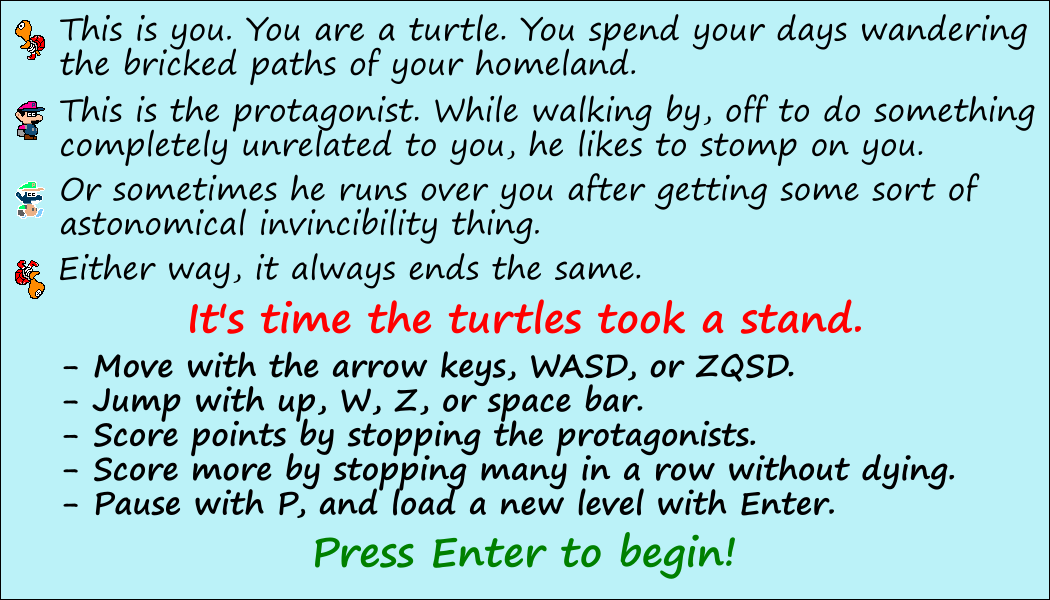
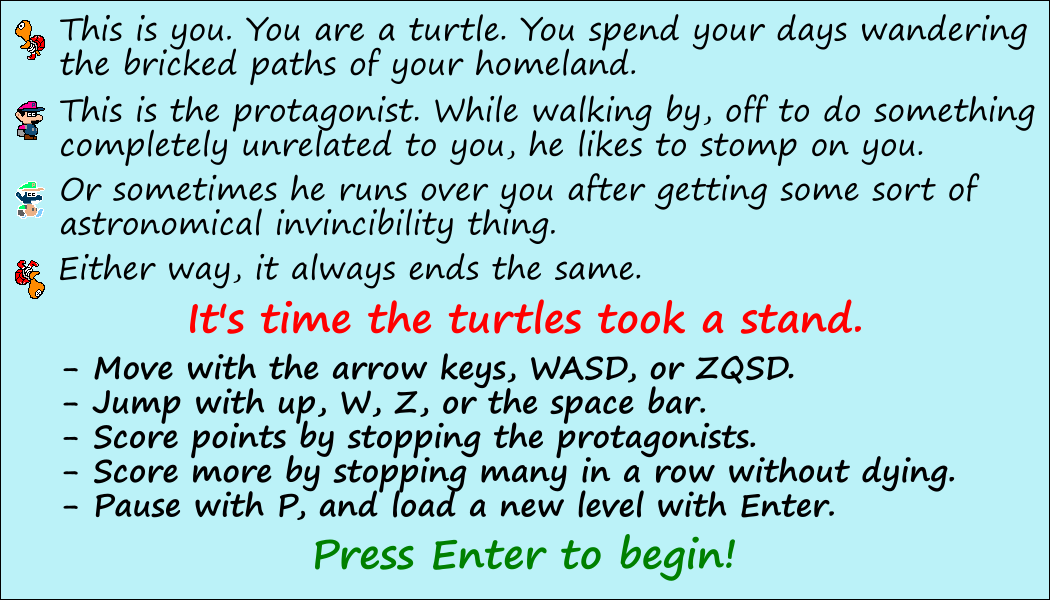
fix typo, add Mareo score

Changed region(s): [[0.061, 0.57, 0.9143, 0.87], [0.3048, 0.9, 0.701, 0.96], [0.0914, 0.33, 0.5486, 0.42]]

diff --git a/js/game.js b/js/game.js
@@ -47,7 +47,8 @@ window.addEventListener('load', function(){
 			{name: 'Garrett', score: 260000},
 			{name: 'Nick', score: 226900},
 			{name: 'Stuart', score: 221500},
-			{name: 'Stephen', score: 137000}
+			{name: 'Stephen', score: 137000},
+			{name: 'Mareo', score: 75900}
 		]));
 	}
 
